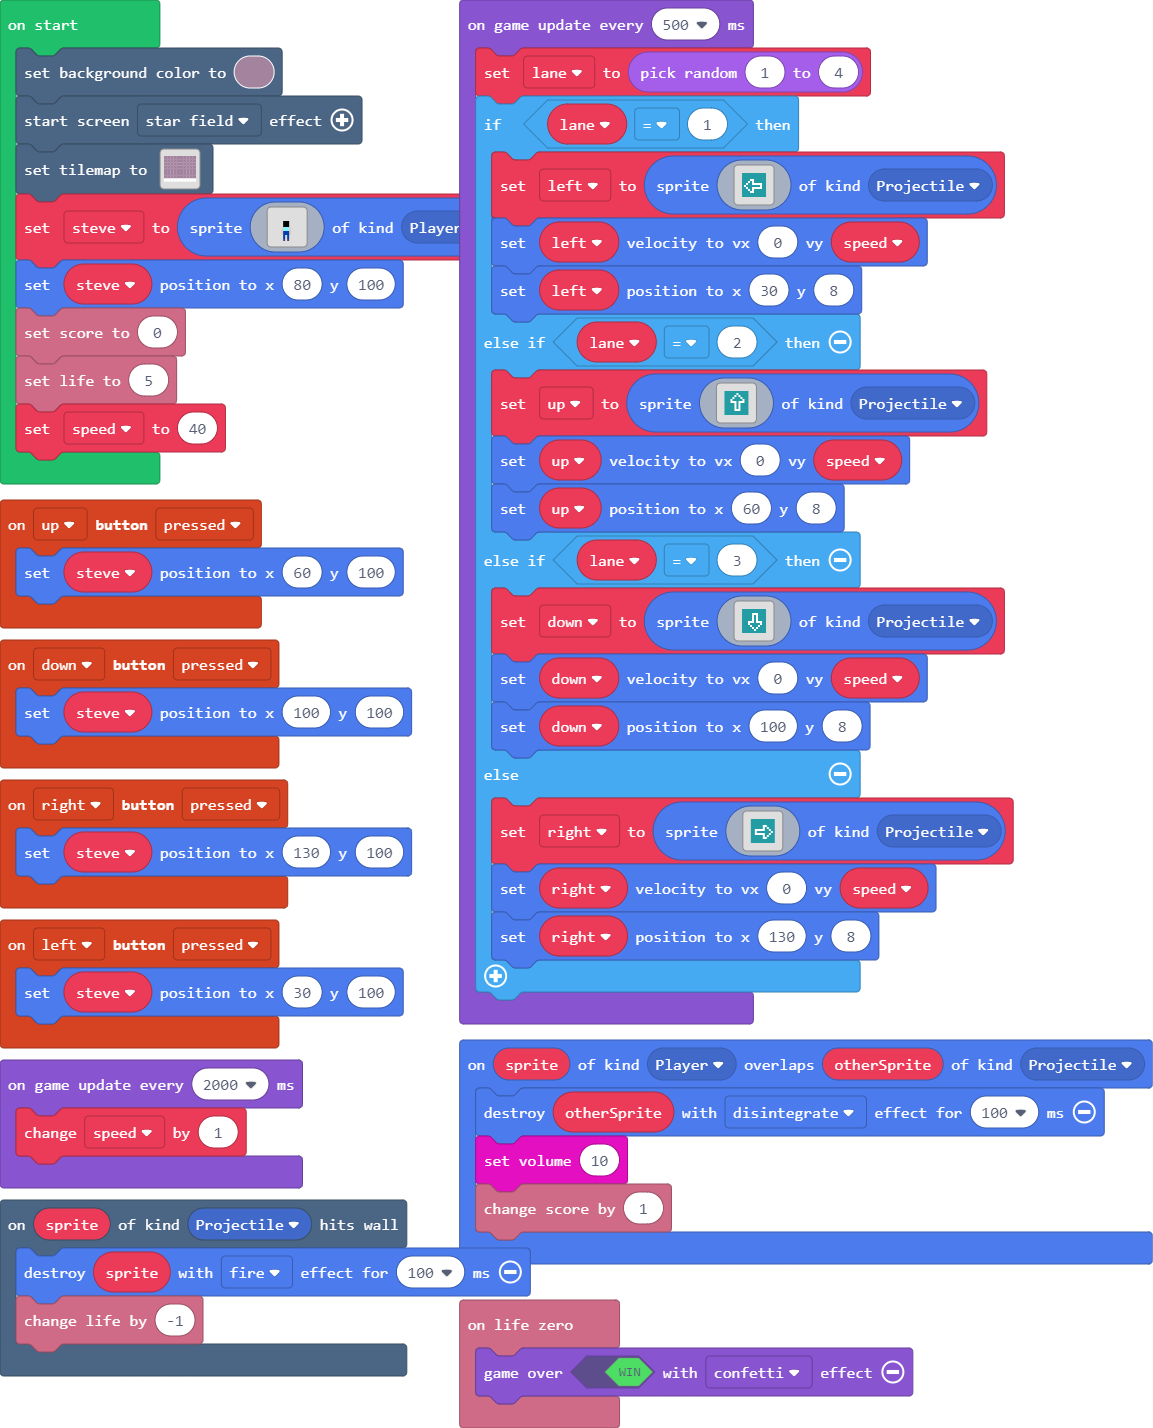
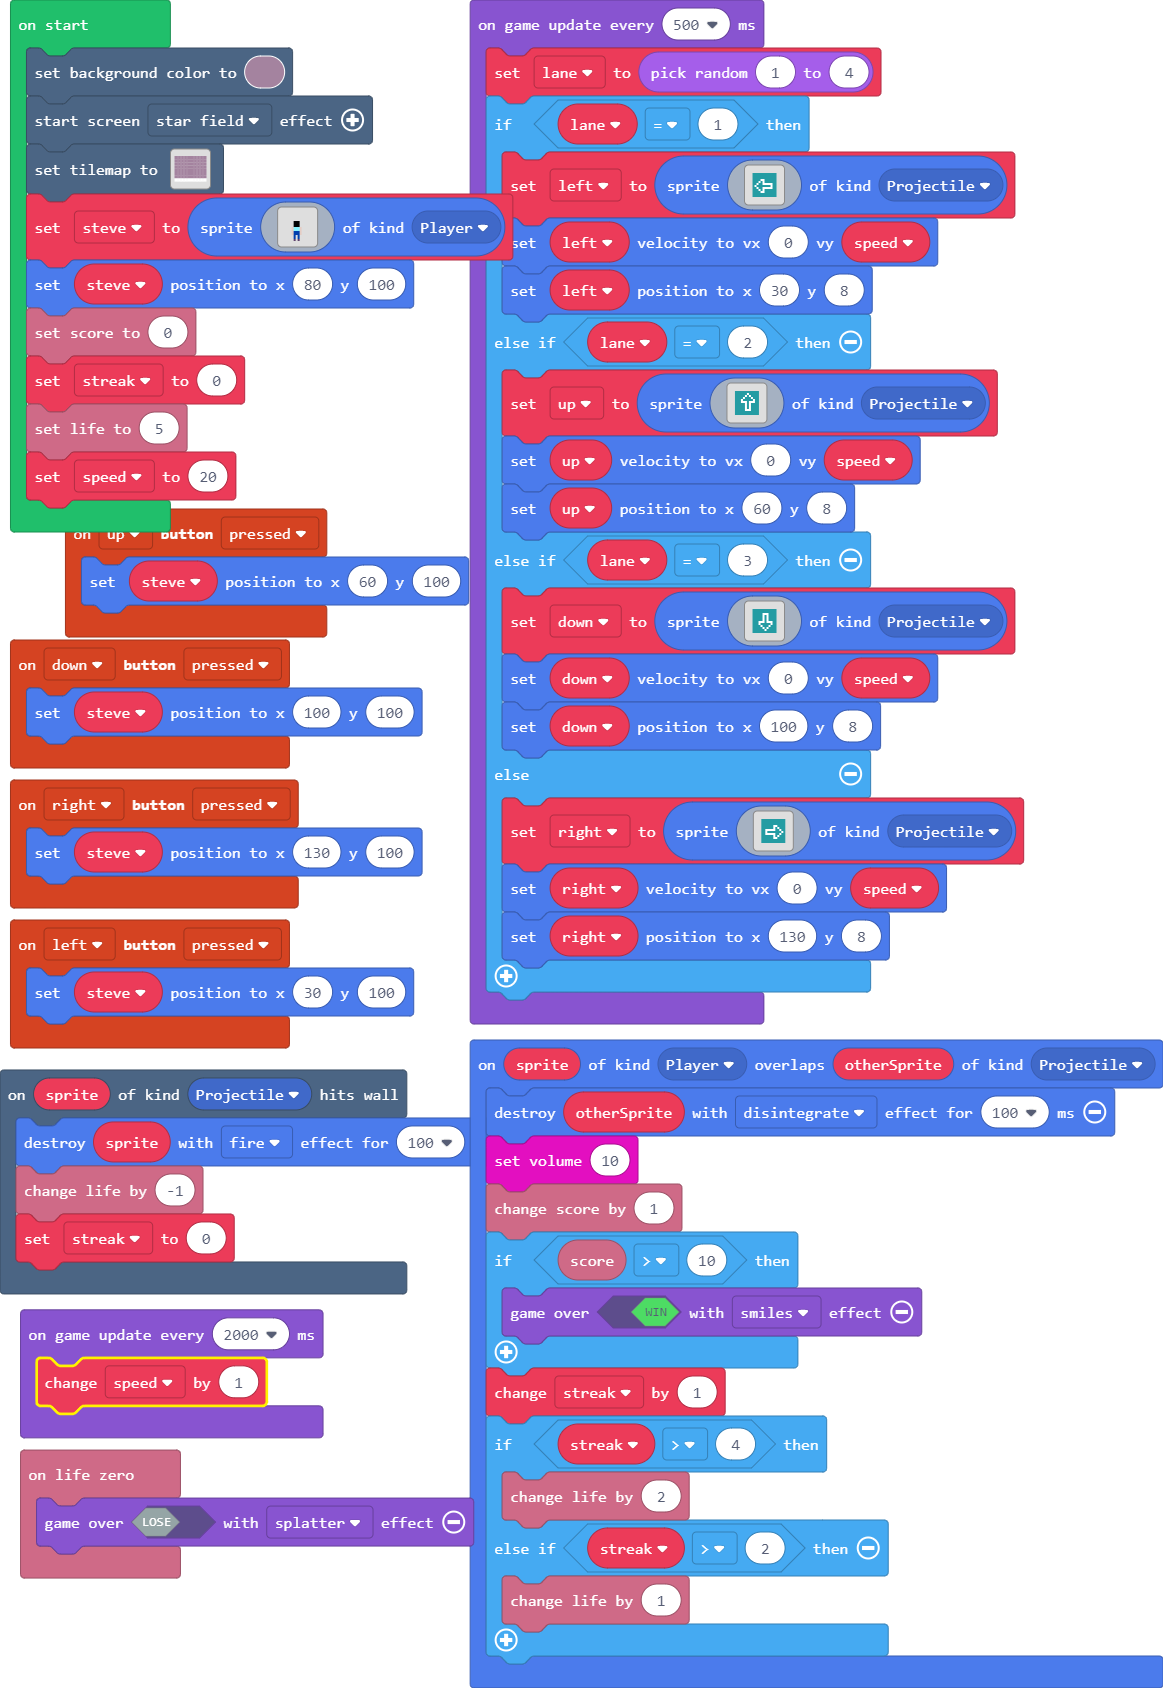
Added streaks

diff --git a/main.ts b/main.ts
@@ -67,10 +67,20 @@ sprites.onOverlap(SpriteKind.Player, SpriteKind.Projectile, function (sprite, ot
     otherSprite.destroy(effects.disintegrate, 100)
     music.setVolume(10)
     info.changeScoreBy(1)
+    if (info.score() > 10) {
+        game.over(true, effects.smiles)
+    }
+    streak += 1
+    if (streak > 4) {
+        info.changeLifeBy(2)
+    } else if (streak > 2) {
+        info.changeLifeBy(1)
+    }
 })
 scene.onHitWall(SpriteKind.Projectile, function (sprite) {
     sprite.destroy(effects.fire, 100)
     info.changeLifeBy(-1)
+    streak = 0
 })
 controller.right.onEvent(ControllerButtonEvent.Pressed, function () {
     steve.setPosition(130, 100)
@@ -79,13 +89,14 @@ controller.up.onEvent(ControllerButtonEvent.Pressed, function () {
     steve.setPosition(60, 100)
 })
 info.onLifeZero(function () {
-    game.over(true, effects.confetti)
+    game.over(false, effects.splatter)
 })
 let right: Sprite = null
 let down: Sprite = null
 let up: Sprite = null
 let left: Sprite = null
 let lane = 0
+let streak = 0
 let steve: Sprite = null
 scene.setBackgroundColor(11)
 effects.starField.startScreenEffect()
@@ -124,8 +135,9 @@ steve = sprites.create(img`
 `, SpriteKind.Player)
 steve.setPosition(80, 100)
 info.setScore(0)
+streak = 0
 info.setLife(5)
-let speed = 40
+let speed = 20
 game.onUpdateInterval(2000, function () {
     speed += 1
 })
